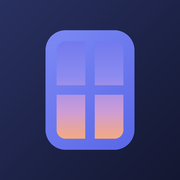
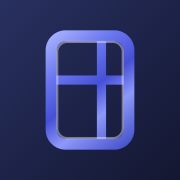
feat(web): [AI] 창문 마크 v3 '빛나는 창틀' — 라인 창 + 오프셋 십자 + 메탈릭 광택 (QA)
- 내부 새벽 하늘 채움 제거 → 라인만 남긴 심플 창(사용자 피드백)
- 십자 창살 변주: 교차점을 중심에서 우상단으로 살짝 오프셋한 비대칭
  4분할 — 정중앙 십자·상단 가로살 시안은 십자가/T 오독이라 배제
- 프레임: 블루베리 메탈릭 광택 그라데이션(밝음→깊음→글린트→깊음)
  + 안쪽 흰 베벨 라인 — 금속 테두리처럼 빛이 도는 느낌
- icon.svg(파비콘)·apple-icon.png 동일 기하로 동기화

Changed region(s): [[0.25, 0.1667, 0.75, 0.8333], [0.5556, 0.6667, 0.75, 0.8333], [0.6944, 0.1944, 0.7222, 0.2222]]

diff --git a/apps/web/src/components/WindowMark.tsx b/apps/web/src/components/WindowMark.tsx
@@ -1,76 +1,52 @@
 import { useId } from "react";
 
-// 창문 로고 v2 — "새벽빛 창": 배경 박스 없이 창문 단독. 블루베리 그라데이션 프레임 +
-// 창밖 새벽 하늘(딥블루→라벤더→핑크→피치). 브랜드 미션(밤에서 기회를 내다보는 창)을 담는다.
-// 그라데이션 id는 useId — 한 화면에 여러 개 렌더돼도 충돌하지 않게.
+// 창문 로고 v3 — "빛나는 창틀"(QA #30): 내부 채움 없이 라인만 남긴 심플 창.
+// 십자 창살 변주 = 가로 창살을 위쪽 1/3(트랜섬)로 올려 건축적인 리듬을 준다.
+// 프레임은 블루베리 메탈릭 광택 — 밝음→깊음→글린트→깊음 밴딩 + 안쪽 흰 베벨 라인으로
+// 금속 테두리처럼 빛이 도는 느낌. 그라데이션 id는 useId(한 화면 다중 렌더 충돌 방지),
+// line 요소는 바운딩박스가 0폭이라 전부 userSpaceOnUse 좌표 고정.
 export function WindowMark({ className }: { className?: string }) {
   const uid = useId();
-  const frameId = `${uid}-frame`;
-  const skyId = `${uid}-sky`;
-  const shadeId = `${uid}-shade`;
+  const sheenId = `${uid}-sheen`;
   return (
     <svg viewBox="0 0 100 100" className={className} aria-hidden="true">
       <defs>
-        {/* line 요소는 바운딩박스가 0폭이라 기본 그라데이션이 렌더되지 않음 → userSpaceOnUse로 좌표 고정 */}
         <linearGradient
-          id={frameId}
+          id={sheenId}
           gradientUnits="userSpaceOnUse"
           x1="21"
           y1="11"
           x2="79"
           y2="89"
         >
-          <stop offset="0" stopColor="#8A96F9" />
-          <stop offset="1" stopColor="#4C5AE2" />
-        </linearGradient>
-        <linearGradient
-          id={skyId}
-          gradientUnits="userSpaceOnUse"
-          x1="50"
-          y1="14.6"
-          x2="50"
-          y2="85.4"
-        >
-          <stop offset="0" stopColor="#5466EB" />
-          <stop offset="0.42" stopColor="#8B8AF0" />
-          <stop offset="0.62" stopColor="#CD9CD6" />
-          <stop offset="0.78" stopColor="#F7AB7A" />
-          <stop offset="1" stopColor="#FFCB8A" />
-        </linearGradient>
-        <linearGradient
-          id={shadeId}
-          gradientUnits="userSpaceOnUse"
-          x1="50"
-          y1="14.6"
-          x2="50"
-          y2="85.4"
-        >
-          <stop offset="0" stopColor="#181C46" stopOpacity="0.28" />
-          <stop offset="0.2" stopColor="#181C46" stopOpacity="0" />
+          <stop offset="0" stopColor="#b3bcff" />
+          <stop offset="0.28" stopColor="#6b78f0" />
+          <stop offset="0.5" stopColor="#4650d8" />
+          <stop offset="0.68" stopColor="#8d98fa" />
+          <stop offset="1" stopColor="#3a46c4" />
         </linearGradient>
       </defs>
-      {/* 창밖 새벽 하늘 + 상단 인너 섀도(프레임 뒤 깊이감) */}
-      <rect x="24.6" y="14.6" width="50.8" height="70.8" rx="9" fill={`url(#${skyId})`} />
-      <rect x="24.6" y="14.6" width="50.8" height="70.8" rx="9" fill={`url(#${shadeId})`} />
-      {/* 프레임 + 창살 — 블루베리 빛깔 */}
+      {/* 창살 변주 — 십자를 중심에서 우상단으로 살짝 비껴 비대칭 4분할(창 리듬).
+          정중앙+세로 관통은 십자가로, 세로 하단만은 T로 오독 — 오프셋이 정답. */}
       <line
-        x1="50"
+        x1="57.5"
         y1="17"
-        x2="50"
+        x2="57.5"
         y2="83"
-        stroke={`url(#${frameId})`}
+        stroke={`url(#${sheenId})`}
         strokeWidth="6"
         strokeLinecap="round"
       />
       <line
         x1="27"
-        y1="50"
+        y1="43.5"
         x2="73"
-        y2="50"
-        stroke={`url(#${frameId})`}
+        y2="43.5"
+        stroke={`url(#${sheenId})`}
         strokeWidth="6"
         strokeLinecap="round"
       />
+      {/* 프레임 + 안쪽 베벨 글린트(금속 광 한 줄) */}
       <rect
         x="24.6"
         y="14.6"
@@ -78,8 +54,19 @@ export function WindowMark({ className }: { className?: string }) {
         height="70.8"
         rx="9.5"
         fill="none"
-        stroke={`url(#${frameId})`}
+        stroke={`url(#${sheenId})`}
         strokeWidth="7.2"
+      />
+      <rect
+        x="28.6"
+        y="18.6"
+        width="42.8"
+        height="62.8"
+        rx="6.5"
+        fill="none"
+        stroke="#ffffff"
+        strokeOpacity="0.4"
+        strokeWidth="1.4"
       />
     </svg>
   );
